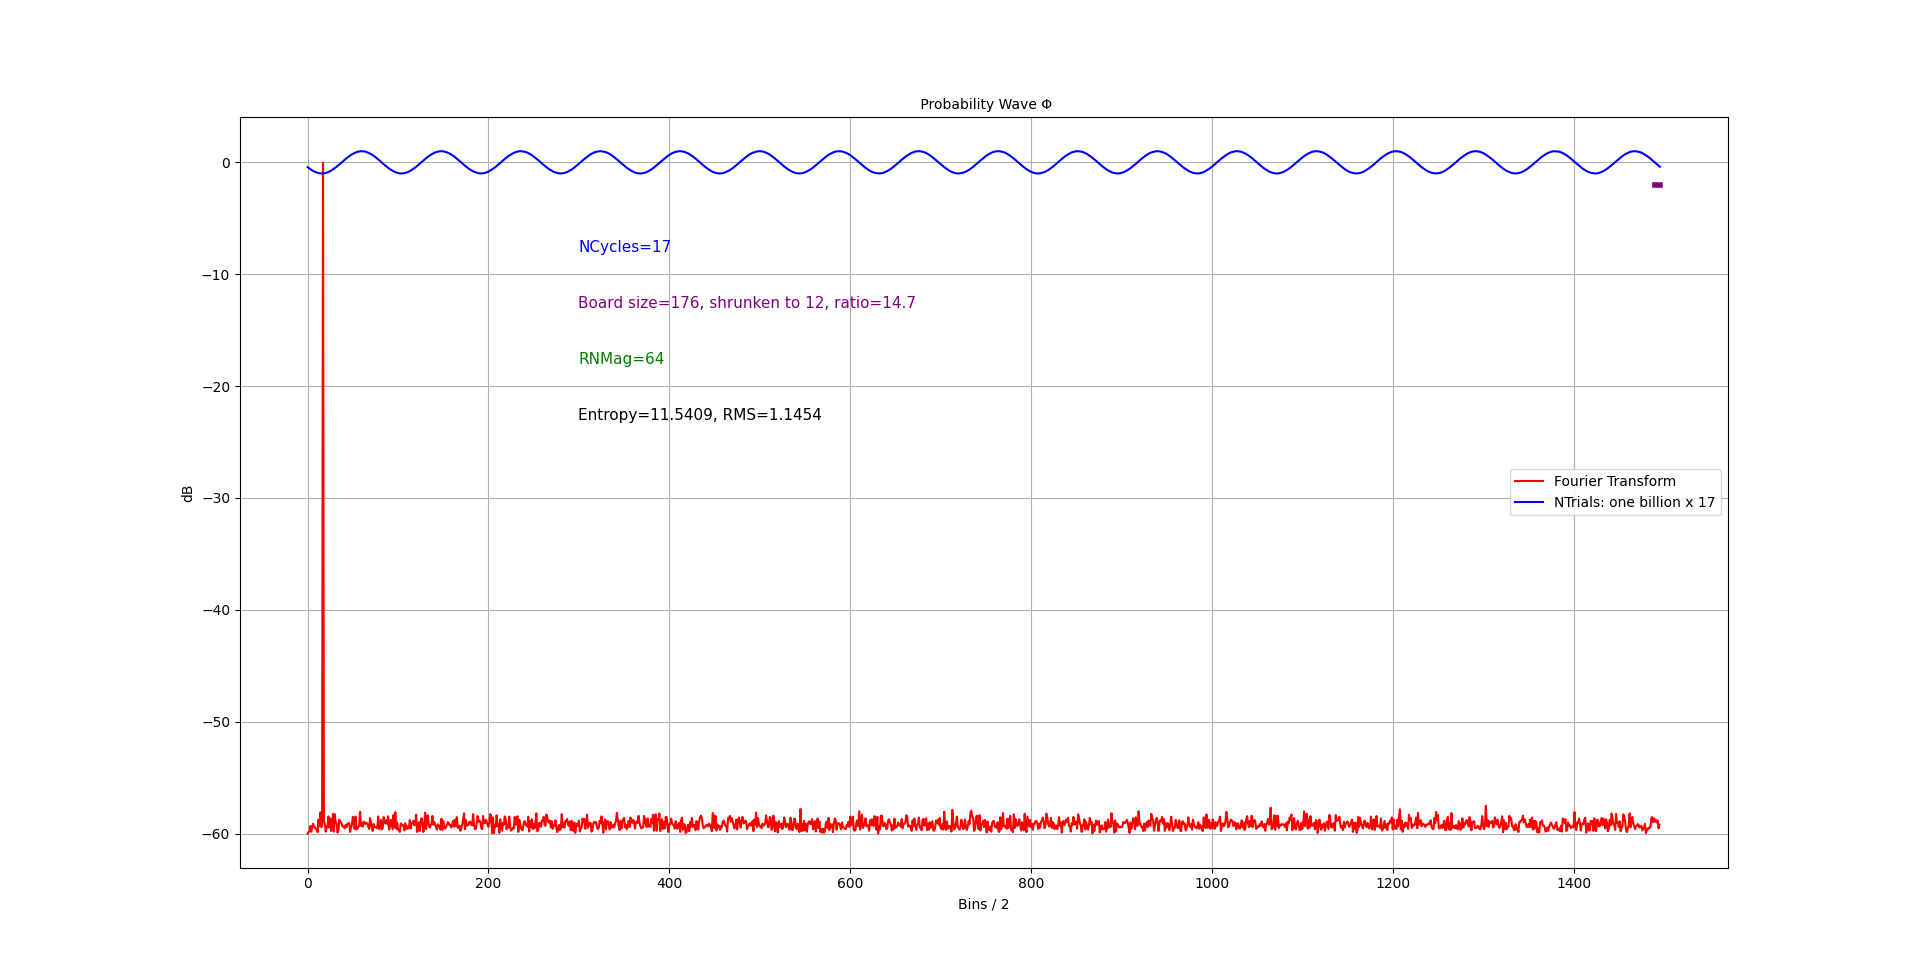
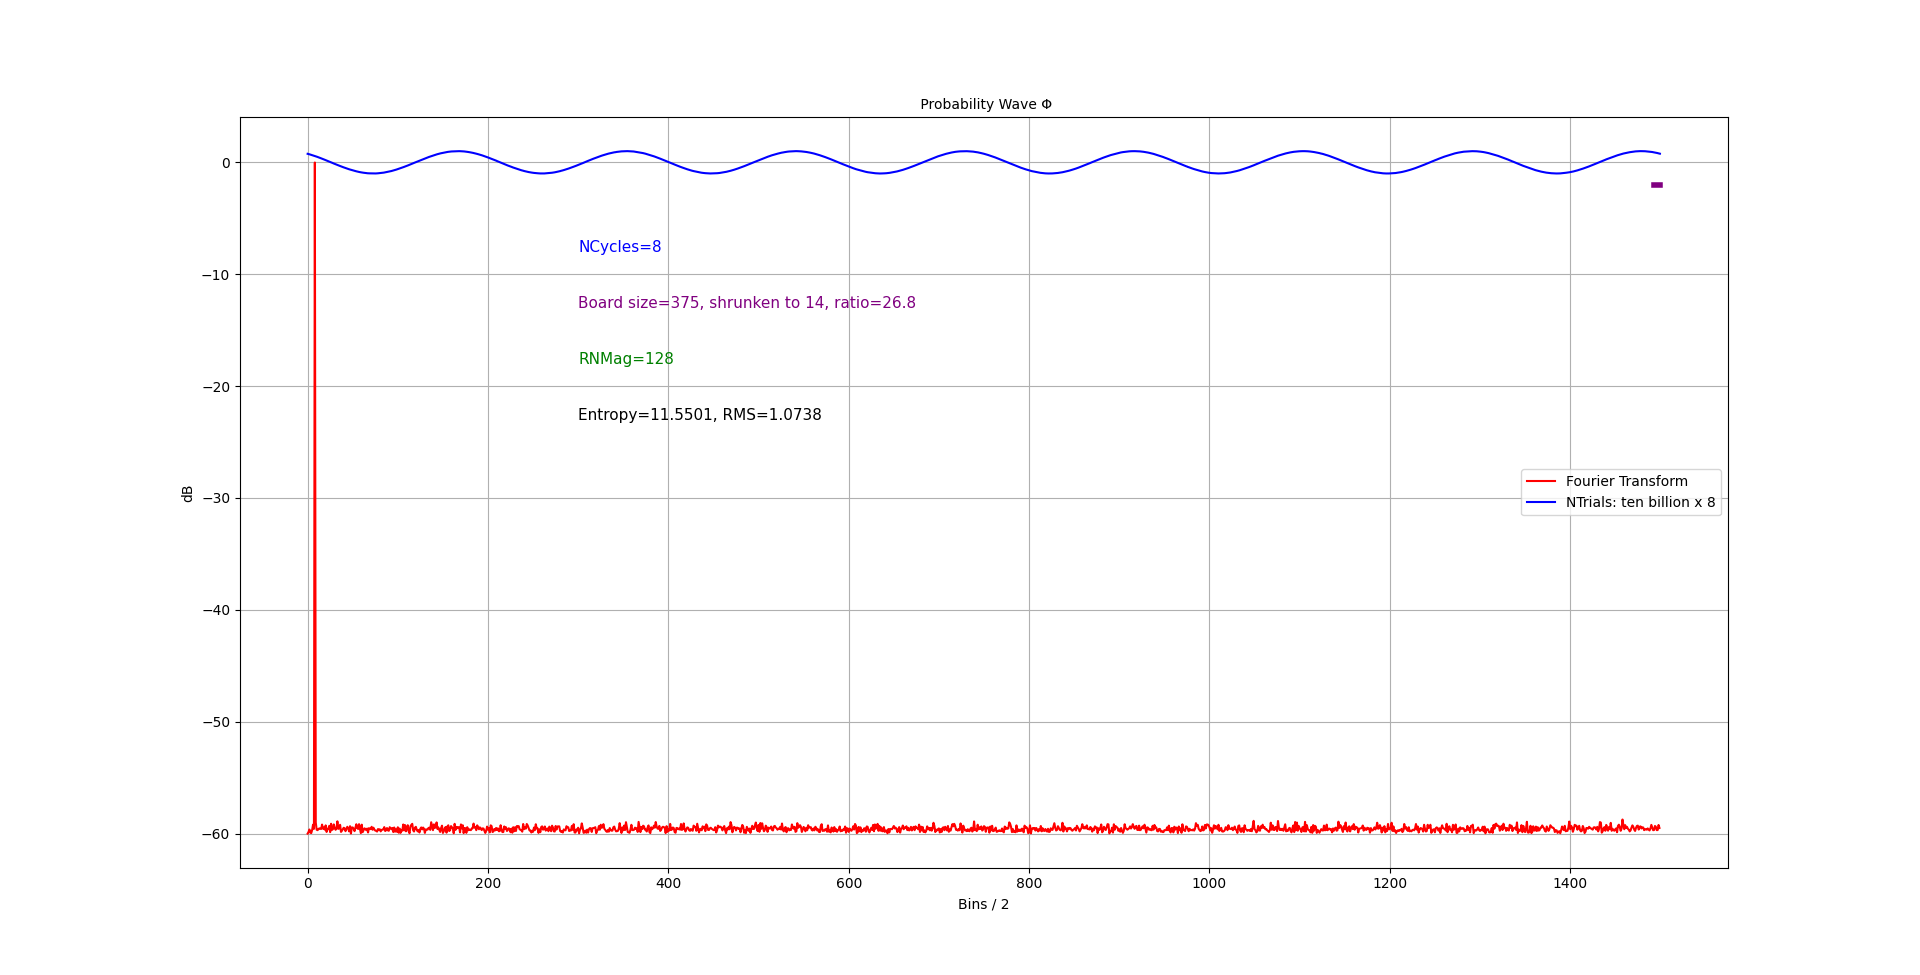
update.

diff --git a/Galton Board/Galton_Board.cpp b/Galton Board/Galton_Board.cpp
@@ -15,7 +15,7 @@ int main(int argc, char** argv)
 
 	std::uint64_t Ntrials = 1000000000;
 	//Wave cycles or threads  
-	U Ncycles = 40;
+	U Ncycles = 8;
 	//Number of integrations
 	U N_Integrations = 10;
 	//Initial number of bins
@@ -127,15 +127,11 @@ int main(int argc, char** argv)
 
 	auto begin = std::chrono::high_resolution_clock::now();
 
-	for (U i = 0; i < N_Integrations; i++) {
-		
-		for (U k = 0; k < Ncycles; k++) {
-
+	for (U i = 0; i < N_Integrations; i++)
+		for (U k = 0; k < Ncycles; k++)
 			vecOfThreads.push_back(std::async([&, i, k] {
 				return Galton(Ntrials, Initial_Board_size, Ncycles, galton_arr[i][k], Probability_wave,
 					i * Ncycles + k + Seed, Enable_Seed); }));
-		}
-	}
 
 	for (auto& th : vecOfThreads)
 		vec = th.get();
